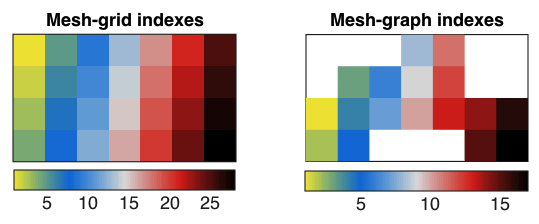
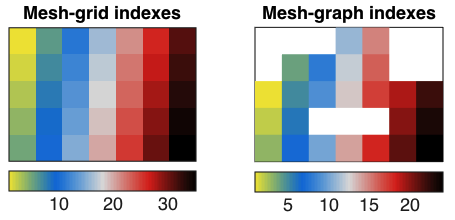
more mesh is mesher

diff --git a/projects/graph-alg/mesher/mesher_demo.m b/projects/graph-alg/mesher/mesher_demo.m
@@ -122,6 +122,51 @@ neigh_graph = neigh_graph_(neigh_mesh,mesh2graph,n_g2m);
 % ------------------------------------------------------------------------------
 neigh_type = neigh_type_(a,nx,nz,n_g2m,graph2mesh);
 % ------------------------------------------------------------------------------
+% 
+%       this part is for building the PDE operator L acting on the graph
+% 
+% ------------------------------------------------------------------------------
+% we need L to be defined as a sparse matrix,
+% so we need arrays I and J to do:
+% 
+%        L = sparse(I,J,v);
+% 
+% where 'v' is special.
+% ------------------------------------------------------------------------------
+% 1. we need the total number of non-zero entries on L.
+% that is for each row i of L, we have as many entries as neighbors of i + 1.
+% the +1 is to count its own entry.
+% 
+% 2. we also need to count for each node in the graph, 
+% how many entries in I (and J) are of that node.
+% 
+% for 1, we sum all positive entries of neigh_type + n_g2m.
+% the term n_g2m accounts for each L(i,i) entry.
+% 
+% for 2, we sum columnwise all positive entries of neigh_type.
+% 
+% n_IJ : total number of non-zero entries of L (also length of I and J).
+% n_ij : holds the info of how many entries in I (and J) belong to each node i.
+%        it is an array of size n_g2m by 1.
+% ------------------------------------------------------------------------------
+[n_ij,n_IJ] = nIJ(n_g2m,neigh_type);
+% ------------------------------------------------------------------------------
+% now we need to build I and J.
+% 
+% both I and J are of size n_IJ by 1.
+% I denotes the row entries, and J the column entries.
+% for each node i:
+% I needs to have n_ij(i)+1 consecutive entries with the number i.
+% in the same place as these n_ij(i)+1 consecutive entries, 
+% J needs to have the number i in the first entry, 
+% and then each neighbor of i (in the graph) in the subsequent entries.
+% ------------------------------------------------------------------------------
+[I,J] = IJ_(n_g2m,n_ij,n_IJ,neigh_graph);
+% ------------------------------------------------------------------------------
+% 
+%                              visualize results
+% 
+% ------------------------------------------------------------------------------
 fprintf(' -------------- mesh under consideration -------------- \n')
 a
 
@@ -147,6 +192,8 @@ figure;
 fancy_imagesc(a)
 colorbar('off')
 title('Mesh-grid')
+set(gca,'xtick',[])
+set(gca,'ytick',[])
 simple_figure()
 
 figure;
@@ -173,5 +220,14 @@ colormap(rainbow2_cb(1))
 title('Mesh-graph indexes')
 set(gca,'xtick',[])
 set(gca,'ytick',[])
+simple_figure()
+% ------------------------------------------------------------------------------
+% this part is only an example on how the matrix L will look like
+v=ones(n_IJ,1); 
+L=sparse(I,J,v);
+
+figure;
+spy(L)
+title('L graph-operator')
 simple_figure()
 % ------------------------------------------------------------------------------

diff --git a/projects/graph-alg/mesher/src/IJ_.m b/projects/graph-alg/mesher/src/IJ_.m
@@ -1,0 +1,55 @@
+function [I,J] = IJ_(n_g2m,n_ij,n_IJ,neigh_graph)
+% diego domenzain
+% April 2021 @ Colorado School of Mines
+% 
+% ------------------------------------------------------------------------------
+% let L be a PDE operator acting on the graph of a grid-mesh.
+% 
+% we need L to be defined as a sparse matrix,
+% so we need arrays I and J to do:
+% 
+%        L = sparse(I,J,v);
+% 
+% where 'v' is special.
+% ------------------------------------------------------------------------------
+% we assume we already ran:
+%       [n_ij,n_IJ] = nIJ(n_g2m,neigh_type);
+% ------------------------------------------------------------------------------
+% build I and J.
+% 
+% both I and J are of size n_IJ by 1.
+% I denotes the row entries, and J the column entries.
+% for each node i:
+% I needs to have n_ij(i)+1 consecutive entries with the number i.
+% in the same place as these n_ij(i)+1 consecutive entries, 
+% J needs to have the number i in the first entry, 
+% and then each neighbor of i (in the graph) in the subsequent entries.
+% ------------------------------------------------------------------------------
+% I
+I = zeros(n_IJ,1);
+J = zeros(n_IJ,1);
+il = 1;
+il_= 0;
+for i_g2m=1:n_g2m
+    % -- end of line
+    il_ = il_ + n_ij(i_g2m)+1;
+    % -- in line
+    % I
+    for ii=il:il_
+        I(ii) = i_g2m;
+    end
+    % J
+    J(il) = i_g2m;
+    i_nei = 1;
+    ii    = il+1;
+    while (i_nei<=4)
+        if (neigh_graph(i_g2m,i_nei) ~= 0)
+            J(ii) = neigh_graph(i_g2m,i_nei);
+            ii = ii+1;
+        end
+        i_nei = i_nei + 1;
+    end
+    % -- begining of next line
+    il = il_ + 1;
+end
+end

diff --git a/projects/graph-alg/mesher/src/nIJ.m b/projects/graph-alg/mesher/src/nIJ.m
@@ -1,0 +1,45 @@
+function [n_ij,n_IJ] = nIJ(n_g2m,neigh_type)
+% diego domenzain
+% April 2021 @ Colorado School of Mines
+% 
+% ------------------------------------------------------------------------------
+% let L be a PDE operator acting on the graph of a grid-mesh.
+% 
+% we need L to be defined as a sparse matrix,
+% so we need arrays I and J to do:
+% 
+%        L = sparse(I,J,v);
+% 
+% where 'v' is special.
+% ------------------------------------------------------------------------------
+% 1. we need the total number of non-zero entries on L.
+% that is for each row i of L, we have as many entries as neighbors of i + 1.
+% the +1 is to count its own entry.
+% 
+% 2. we also need to count for each node in the graph, 
+% how many entries in I (and J) are of that node.
+% 
+% for 1, we sum all positive entries of neigh_type + n_g2m.
+% the term n_g2m accounts for each L(i,i) entry.
+% 
+% for 2, we sum columnwise all positive entries of neigh_type.
+% 
+% n_IJ : total number of non-zero entries of L (also length of I and J).
+% n_ij : holds the info of how many entries in I (and J) belong to each node i.
+%        it is an array of size n_g2m by 1.
+% ------------------------------------------------------------------------------
+n_ij = zeros(n_g2m,1);
+n_IJ = 0;
+
+for i_g2m=1:n_g2m
+    n_i = 0;
+    for i_nei=1:4
+        if (neigh_type(i_g2m,i_nei) > 0)
+            n_i = n_i + neigh_type(i_g2m,i_nei);
+        end
+    end
+    n_ij(i_g2m) = n_i;
+    n_IJ = n_IJ + (n_i + 1);
+end
+
+end

diff --git a/projects/graph-alg/mesher/src/g2m_m2g.m b/projects/graph-alg/mesher/src/g2m_m2g.m
@@ -10,8 +10,8 @@ function [graph2mesh,mesh2graph] = g2m_m2g(a,nx,nz,n_g2m)
 % graph2mesh : indexes are graph nodes, entries are mesh nodes
 % mesh2graph : indexes are mesh nodes, entries are graph nodes
 % ------------------------------------------------------------------------------
-graph2mesh = zeros(n_g2m,1);
-mesh2graph = zeros(nz*nx,1);
+graph2mesh = zeros(n_g2m,1,'uint32');
+mesh2graph = zeros(nz*nx,1,'uint32');
 i_g2m = 0;
 for ia = 1:nx*nz
     b=a(ia);

diff --git a/projects/graph-alg/mesher/src/neigh_graph_.m b/projects/graph-alg/mesher/src/neigh_graph_.m
@@ -6,7 +6,7 @@ function neigh_graph = neigh_graph_(neigh_mesh,mesh2graph,n_g2m)
 % neigh_graph : row indexes are graph nodes.
 %               row entries are neighbors of that node, in the graph.
 % ------------------------------------------------------------------------------
-neigh_graph = zeros(n_g2m,4);
+neigh_graph = zeros(n_g2m,4,'uint32');
 for i_g2m = 1:n_g2m
     for i_nei = 1:4
         if (neigh_mesh(i_g2m,i_nei) ~= 0)

diff --git a/projects/graph-alg/mesher/src/neigh_mesh_.m b/projects/graph-alg/mesher/src/neigh_mesh_.m
@@ -9,7 +9,7 @@ function neigh_mesh = neigh_mesh_(a,nx,nz,n_g2m,graph2mesh)
 % neigh_mesh : row indexes are graph nodes.
 %              row entries are neighbors of that node, in the mesh. 
 % ------------------------------------------------------------------------------
-neigh_mesh = zeros(n_g2m,4);
+neigh_mesh = zeros(n_g2m,4,'uint32');
 
 i_up = 0;
 i_do = 0;

diff --git a/projects/graph-alg/mesher/src/neigh_type_.m b/projects/graph-alg/mesher/src/neigh_type_.m
@@ -19,7 +19,7 @@ function neigh_type = neigh_type_(a,nx,nz,n_g2m,graph2mesh)
 % 
 % we define : (type,BC) = (1,inner) (-1,neumann) (0,robin)
 % ------------------------------------------------------------------------------
-neigh_type = zeros(n_g2m,4);
+neigh_type = zeros(n_g2m,4,'int32');
 
 inner =  1;
 neuma = -1;

diff --git a/projects/graph-alg/mesher/README.md b/projects/graph-alg/mesher/README.md
@@ -17,6 +17,8 @@ The words **mesh** or **mesh-grid** refer to the existing rectangular gridded me
 
 The word **graph** refers to the region of interest inside the mesh-grid.
 
+The *Matlab* code uses lots of ```for, while``` and ```if``` **on purpose**. It is meant to be **pseudocode** for *Fortran*.
+
 ```
 1. The only nodes that matter in the domain are given in these two column vectors,
 
@@ -72,6 +74,45 @@ the way the neigh_mesh, neigh_graph, and neigh_type refer to the neighbors of no
      4
 
 that is, columns 1, 2, 3, and 4 represent neighbors right, up, left and down.
+```
+
+The last steps are to build the PDE operator ```L```.
+
+```
+we need L to be defined as a sparse matrix,
+so we need arrays I and J to do:
+
+       L = sparse(I,J,v);
+
+where 'v' is special.
+
+1. we need the total number of non-zero entries on L.
+that is for each row i of L, we have as many entries as neighbors of i + 1.
+the +1 is to count its own entry.
+
+2. we also need to count for each node in the graph, 
+how many entries in I (and J) are of that node.
+
+for 1, we sum all positive entries of neigh_type + n_g2m.
+the term n_g2m accounts for each L(i,i) entry.
+
+for 2, we sum columnwise all positive entries of neigh_type.
+
+n_IJ : total number of non-zero entries of L (also length of I and J).
+n_ij : holds the info of how many entries in I (and J) belong to each node i.
+       it is an array of size n_g2m by 1.
+
+now we need to build I and J.
+
+both I and J are of size n_IJ by 1.
+
+I denotes the row entries, and J the column entries.
+
+for each node i:
+   I needs to have n_ij(i)+1 consecutive entries with the number i.
+   In the same place as these n_ij(i)+1 consecutive entries, 
+      J needs to have the number i in the first entry, 
+      and then each neighbor of i (in the graph) in the subsequent entries.
 ```
 ---
 
